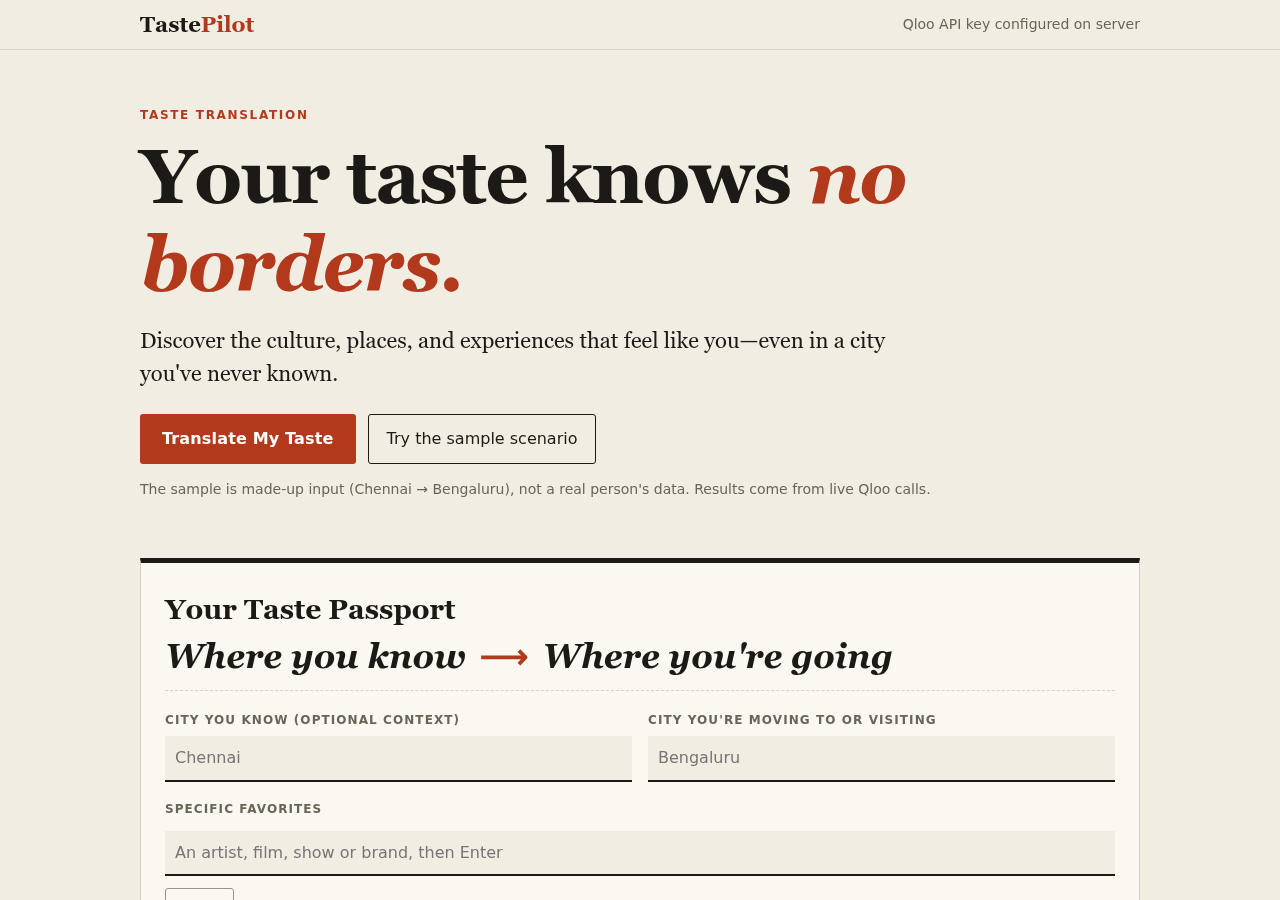
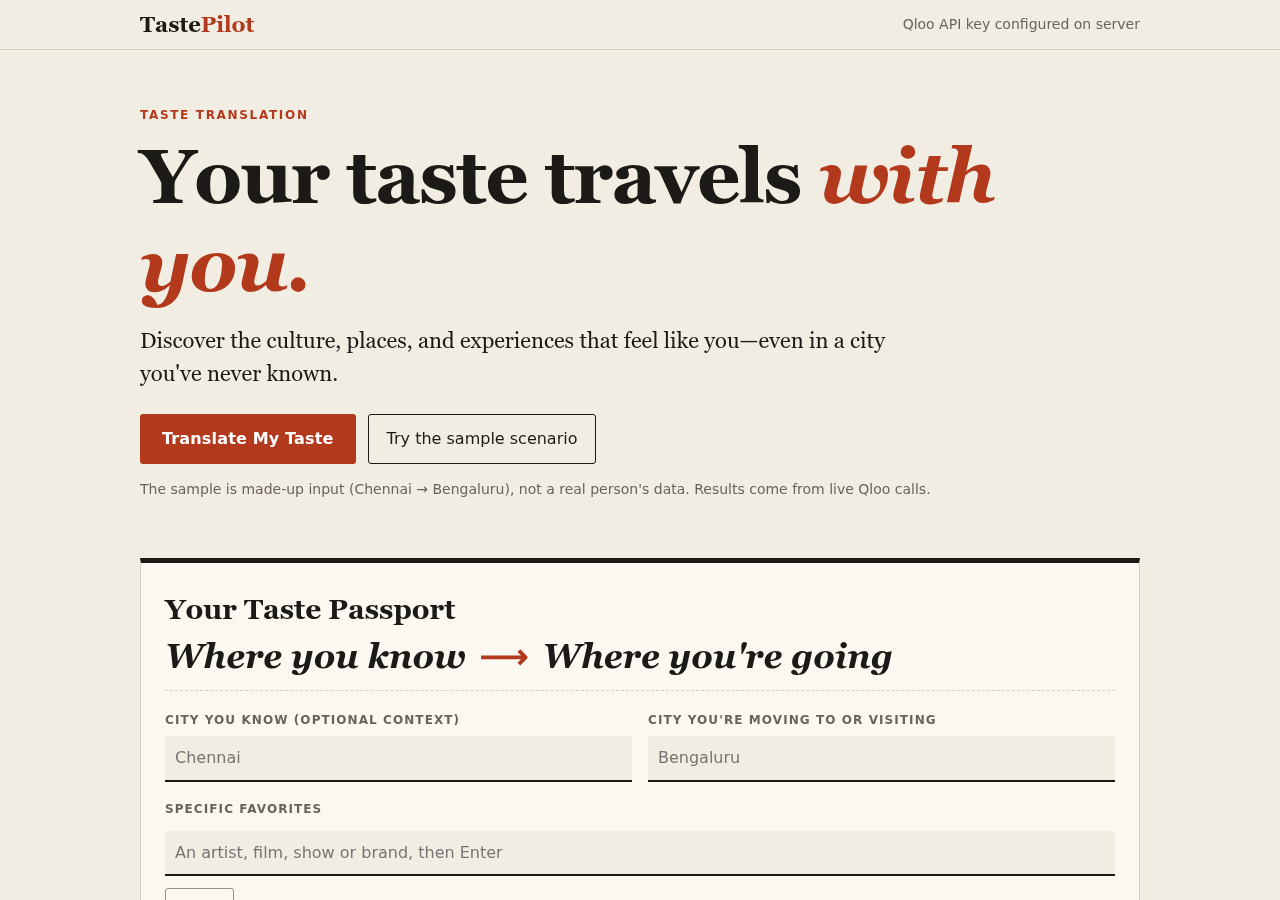
Finalize submission pack: tagline, README screenshots, publishing audit

Changed region(s): [[0.4062, 0.1556, 0.7812, 0.2489], [0.0938, 0.2489, 0.375, 0.3422]]

diff --git a/client/src/App.tsx b/client/src/App.tsx
@@ -59,7 +59,7 @@ export default function App() {
 
       <section className="hero">
         <p className="eyebrow">Taste Translation</p>
-        <h1>Your taste knows <em>no borders.</em></h1>
+        <h1>Your taste travels <em>with you.</em></h1>
         <p className="lede">Discover the culture, places, and experiences that feel like you—even in a city you've never known.</p>
         <div className="row gap">
           <button className="primary" onClick={cta} disabled={busy}>{busy ? "Translating…" : "Translate My Taste"}</button>

diff --git a/client/index.html b/client/index.html
@@ -1,4 +1,4 @@
 <!doctype html>
 <html lang="en"><head><meta charset="utf-8"><meta name="viewport" content="width=device-width,initial-scale=1">
-<title>TastePilot — cultural experience agent</title></head>
+<title>TastePilot — your taste travels with you</title></head>
 <body><div id="root"></div><script type="module" src="/src/main.tsx"></script></body></html>

diff --git a/README.md b/README.md
@@ -1,8 +1,19 @@
-# TastePilot — your taste knows no borders
+# TastePilot — your taste travels with you
 
 **Taste Translation for people moving to, or visiting, a city they don't know.** You tell TastePilot what you love (specific artists and films, genres, kinds of places, atmosphere). It resolves that through [Qloo](https://docs.qloo.com/)'s cultural-intelligence API and finds places in the destination city that connect to *your* taste, showing the evidence for each match and what is still unverified.
 
 Built for the Qloo Agentic Hackathon (Oct 2026). MIT licensed.
+
+## Screenshots (from the real running app, live Qloo, 2026-10-29)
+| | |
+|---|---|
+| ![Home and Taste Passport](docs/screenshots/s1-hero.png) | ![Translated recommendations](docs/screenshots/s2-translation.png) |
+| ![Taste Translation Map](docs/screenshots/s3-map.png) | ![Agent activity](docs/screenshots/s4-activity.png) |
+
+Mobile (390 px): `docs/screenshots/s5-mobile.png`. The sample uses made-up input (Chennai → Bengaluru); the places, ratings and descriptions shown are what Qloo returned.
+
+## Status
+Public demo URL and public repository URL: **not published yet** (see `SUBMISSION_CHECKLIST.md`). Everything runs locally and in Docker.
 
 ## The problem
 Maps and review apps rank places by popularity and proximity. Someone who loves indie music, quiet cafés and science-fiction films has no way to say "find me the Bengaluru version of my Chennai" — and an LLM answering from memory can't show where its suggestions come from.

diff --git a/TEST_REPORT.md b/TEST_REPORT.md
@@ -1,6 +1,6 @@
 # Test report
 
-Run on 2026-10-29 against the final state of this repository.
+Run on 2026-10-29 against the final state of this repository (re-run in the finalization pass: 72 mocked + 5 live passed, typecheck clean, build OK).
 
 | Check | Command | Result |
 |---|---|---|
@@ -9,7 +9,7 @@ Run on 2026-10-29 against the final state of this repository.
 | Type check (server, tests, client) | `npm run typecheck` | **clean** (exit 0) |
 | Production build | `npm run build` | **succeeds** (Vite + tsc; `dist/` has server only, no tests) |
 | Docker image | `docker build` + run with prod settings and a live key | **builds; runs as non-root; live translate returned 22 places, 0 failed calls; no key in logs or image filesystem** |
-| Browser journey | `e2e/journey.mjs` against the production server, live Qloo | **6/6 assertions passed**, 0 console errors, 0 failed requests |
+| Browser journey | `e2e/journey.mjs` against the production server, live Qloo | **7/7 assertions passed** (incl. tagline shown), 0 console errors, 0 failed requests |
 
 ## What the mocked tests cover (72)
 - **Qloo client**: header and documented params, `/v2/tags`, `signal.interests.tags`, normalization of live-shaped fields (price level, hours, subtype, tag explainability), unsafe `website` rejected, empty results, 401 (no retry), 403, 429 with retry and exhaustion, 5xx retry, timeout, malformed body, missing optional fields, unset `baseUrl` default.

diff --git a/DEMO_SCRIPT.md b/DEMO_SCRIPT.md
@@ -6,7 +6,7 @@ Pre-flight (1 min): server running with a real `QLOO_API_KEY` and `NODE_ENV=prod
 "You move from Chennai to Bengaluru. Maps tell you what's popular. TastePilot tells you what's *you*. It takes the artists and films you love, resolves them through Qloo, and finds places in your new city that connect to your taste — and shows the evidence for every one, including where it had to fall back."
 
 ## 2-minute demo
-1. **(0:00) Hero.** Read the headline. "Your taste knows no borders." Point to *Try the sample scenario* and the note that it's made-up input.
+1. **(0:00) Hero.** Read the headline. "Your taste travels with you." Point to *Try the sample scenario* and the note that it's made-up input.
 2. **(0:10) Passport.** Click the sample. While it loads: "Specific favorites — Prateek Kuhad, Radiohead, Blade Runner 2049 — are matched in Qloo and used directly as my signals."
 3. **(0:25) Translation.** Results appear (about 4 s). Open the first card: "Qloo's own description and rating; *evidence: signal-linked* means Qloo's explainability named one of my favorites." Point to the three badges: Qloo data / evidence / (app-derived).
 4. **(0:50) Honesty.** Show the amber notice: "Heritage buildings: Qloo had no places with my taste signals in Bengaluru, so it fell back to the same category without signals — flagged *low confidence*, not passed off as a match."

diff --git a/SUBMISSION.md b/SUBMISSION.md
@@ -1,7 +1,7 @@
 # TastePilot — Devpost submission text
 
 ## Tagline
-Your taste knows no borders.
+Your taste travels with you.
 
 ## Elevator pitch (30 s)
 When you move to a city you don't know, maps show you what's popular, not what's *you*. TastePilot takes the artists, films, genres and kinds of places you love, resolves them through Qloo's cultural-intelligence API, and finds places in your new city that connect to your taste — with the evidence for every match, and honest flags where the data is thin.
